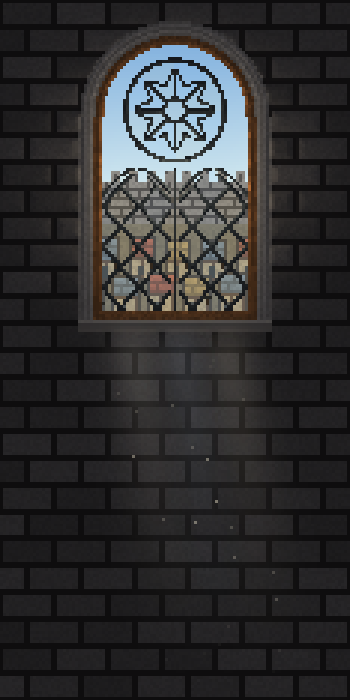
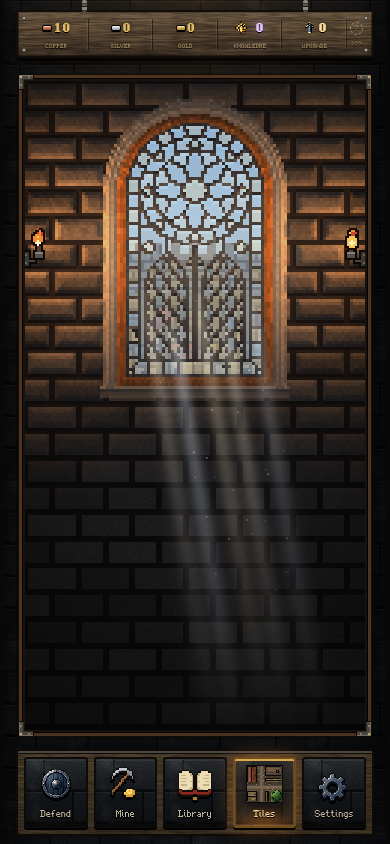
Tiles hall: visible moving sunbeams with dust, and a re-leaded pale stained-glass window
The sunlight Codex added was drawn into the wall canvas, under the dim veil
and the tile shelf, so almost none of it showed. The shafts and dust now
draw every frame on their own layer screened over the whole room (the menu
too): five narrower shafts pulsing like the Library's, a slower, wider sway,
and seventy wall-clock motes that glint only inside the light. The keep's
veil and shelf backing are lighter.

The window is glazed pane by pane with one-pixel mirrored cames: a beaded
border, a rose with a cream eye, eight petals and a ring of roundels,
roundelled spandrels and two pointed lancets of diamond quarries, in pale
clear, blue and cream glass. No goldens change.

Claude-Session: https://claude.ai/code/session_0147Kvxq8xaQsWX41nvHzmmA

diff --git a/src/ui/hall-art.ts b/src/ui/hall-art.ts
@@ -37,6 +37,8 @@ export class HallBackdrop {
   private part = new Uint8Array(0);
   private scene = new Float32Array(0);
   private glassTint = new Uint8Array(0);
+  /** Each pane's own brightness, lighter along its top came and darker along its foot. */
+  private glassShade = new Float32Array(0);
   private detailed = false;
   private sunlight: SoftSunlight | null = null;
   private city = new Float32Array(0);
@@ -63,6 +65,7 @@ export class HallBackdrop {
     this.part = new Uint8Array(n);
     this.scene = new Float32Array(n);
     this.glassTint = new Uint8Array(n);
+    this.glassShade = new Float32Array(n);
     this.city = new Float32Array(n * 3);
     this.outside = [];
     for (let y = 0; y < h; y++)
@@ -85,8 +88,10 @@ export class HallBackdrop {
     return true;
   }
 
-  /** A round-headed opening in moulded stone and oak. Pixel Art uses an
-   * eight-petal rose, paired pointed lights and pale glazing; off preserves
+  /** A round-headed opening in moulded stone and oak. Pixel Art glazes it
+   * with one-pixel leadwork (`leadedPane`): a beaded border, an eight-petal
+   * rose ringed with roundels, two pointed lancets of diamond quarries, all
+   * in pale clear, blue and cream glass; off preserves
    * the old four-lobed clear window. Both overlook the same living city. */
   private bakeWindow(hgt: Float32Array) {
     const { w, h } = this, ww = Math.round(Math.max(30, Math.min(w * 0.46, 110))), r = ww / 2;
@@ -130,15 +135,16 @@ export class HallBackdrop {
         const lobe = rose.r * 0.46;
         const iron = ring(rose, rose.r) || ring(rose, rose.r * 0.18)
           || [[1, 0], [-1, 0], [0, 1], [0, -1]].some(([a, b]) => ring({ x: rose.x + a * lobe, y: rose.y + b * lobe }, lobe * 0.98));
-        const pane = this.detailed ? windowPane(px, py, cx, r, rose.y, bottom) : null;
+        const pane = this.detailed ? leadedPane(px, py, cx, r, archY, bottom) : null;
         if (pane ? pane.lead : iron) {
           this.part[i] = TRACERY;
           hgt[i] = 1;
-          this.albedo.set(this.detailed ? [44, 48, 49] : h01(x, y, 19) > 0.65 ? [73, 75, 70] : [30, 34, 33], i * 3);
+          this.albedo.set(this.detailed ? [52, 54, 58] : h01(x, y, 19) > 0.65 ? [73, 75, 70] : [30, 34, 33], i * 3);
           continue;
         }
         this.part[i] = GLASS;
         this.glassTint[i] = pane?.tint ?? 0;
+        this.glassShade[i] = pane?.shade ?? 1;
         // Outside: hills, then the city's roofs and its wall under the sky.
         const hill = horizon + Math.sin(px * 0.11) * 2.2 + Math.sin(px * 0.037 + 1) * 3;
         const city = cityPixel(px, py);
@@ -207,9 +213,6 @@ export class HallBackdrop {
     });
     const amb: RGB = this.look === "planks" ? [0.2, 0.15, 0.12] : this.look === "vault" ? [0.25, 0.21, 0.32] : [0.16 + day * 0.14, 0.16 + day * 0.15, 0.2 + day * 0.15];
     const sky = skyColours(day), win = this.win, sun = keep ? day : 0;
-    // Same solar heading as the Library. Reduce Motion keeps a steady heading.
-    const tilt = reduced ? 0.2 : Math.sin(((now % DAY_MS) / DAY_MS) * Math.PI * 2 - Math.PI / 2) * 0.55
-      + Math.sin(now / SUNLIGHT.swayMs) * SUNLIGHT.sway;
     const lit = Math.max(0, Math.min(1, (0.55 - day) / 0.35));
     const exterior = this.outside.map((l) => ({ ...l, f: getTorchFlicker({ x: l.seed, y: 9 }, now, reduced) * lit }));
     for (let y = 0; y < h; y++)
@@ -229,8 +232,10 @@ export class HallBackdrop {
           // A faint sheen across clear glass, and a star or two at night.
           const sheen = this.detailed ? 1 : Math.abs(((x - y * 0.6) % 14 + 14) % 14 - 3) < 1 ? 1.12 : 1;
           if (this.detailed) {
-            const tint: RGB = this.glassTint[i] === 1 ? [226, 240, 249] : this.glassTint[i] === 2 ? [255, 246, 220] : [245, 247, 242];
-            c = mix(c, tint, 0.06 + day * 0.2);
+            // Pale cathedral glass: the view softened behind clear, faintly
+            // blue and faintly cream panes, each pane its own brightness.
+            const t = GLASS_TINTS[this.glassTint[i]], lum = (0.16 + day * 0.84) * this.glassShade[i];
+            c = mix(c, [t[0] * lum, t[1] * lum, t[2] * lum], 0.3 + day * 0.25);
           }
           const star = s > 0 && s < 0.7 && night > 0.5 && h01(x, y, 11) > 0.985 ? 120 * night : 0;
           out[o] = Math.min(255, c[0] * sheen + star);
@@ -281,55 +286,126 @@ export class HallBackdrop {
     }
     const ctx = this.canvas.getContext("2d")!;
     ctx.putImageData(this.image!, 0, 0);
-    if (keep && sun > 0.02) this.drawSunlight(ctx, now, sun, tilt, reduced);
   }
 
-  private drawSunlight(ctx: CanvasRenderingContext2D, now: number, day: number, tilt: number, reduced: boolean) {
-    this.sunlight ??= new SoftSunlight();
-    const { win, h } = this, width = (win.x1 - win.x0 - 6) / 3, top = win.y1 - 4, length = h - top;
-    const clock = reduced ? 0 : now;
-    for (let k = 0; k < 3; k++) {
-      const pulse = 0.9 + Math.sin(clock / (19000 + k * 3000) + k) * 0.1;
-      this.sunlight.draw(ctx, win.x0 + 3 + width * (k + 0.5), top, width, length, tilt, day * pulse, k);
+  /** The sun's shafts from the keep's window and the dust turning in them,
+   * every frame onto `light`, a layer over the whole room (the menu too) that
+   * the page screens over it. Coordinates are art pixels, the canvas a CSS
+   * pixel a pixel so the motes stay fine. Same heading and slow pulse as the
+   * Library's beams, with a gentle sway of their own; Reduce Motion holds
+   * them still and hides the dust; by night it is empty. */
+  drawLight(light: HTMLCanvasElement, now: number, day: number, reduced: boolean) {
+    this.fit();
+    const cw = light.clientWidth, ch = light.clientHeight;
+    if (light.width !== cw || light.height !== ch) {
+      light.width = cw;
+      light.height = ch;
     }
-    if (reduced) return;
-    // Fixed, wall-clock trajectories: bounded work, no spawning or RNG stream.
+    const ctx = light.getContext("2d")!;
+    ctx.clearRect(0, 0, cw, ch);
+    if (this.look !== "keep" || day <= 0.02 || !cw || !ch) return;
+    this.sunlight ??= new SoftSunlight(SUNLIGHT.hallDensity, SUNLIGHT.hallFade);
+    const { win, h } = this, clock = reduced ? 0 : now, span = win.x1 - win.x0 - 8;
+    const tilt = reduced ? 0.2 : Math.sin(((now % DAY_MS) / DAY_MS) * Math.PI * 2 - Math.PI / 2) * 0.55
+      + Math.sin(now / SUNLIGHT.swayMs) * SUNLIGHT.sway + Math.sin(now / SUNLIGHT.hallSwayMs) * SUNLIGHT.hallSway;
+    const beams = 5, width = span / beams, top = win.y0 + (win.y1 - win.y0) * 0.6, length = h - top;
     ctx.save();
-    ctx.fillStyle = "#fff4d9";
-    for (let k = 0; k < SUNLIGHT.dustCount; k++) {
-      const age = (h01(k, 1, 83) + now / (70000 + h01(k, 2, 83) * 90000)) % 1;
-      const run = age * length, across = h01(k, 3, 83);
-      const x = win.x0 + 3 + across * width * 3 + run * tilt + Math.sin(now / 11000 + k) * 2;
-      const fade = Math.sin(age * Math.PI) ** 2;
-      ctx.globalAlpha = day * fade * (0.18 + h01(k, 4, 83) * 0.3);
-      ctx.fillRect(Math.round(x), Math.round(top + run), 1, 1);
+    ctx.scale(cw / this.w, ch / this.h);
+    for (let k = 0; k < beams; k++) {
+      const pulse = 0.72 + 0.28 * Math.sin(clock / (3100 + k * 700) + k * 1.7);
+      const start = top + (k % 2) * 8;
+      // Narrower than their spacing, so each shaft stands apart and breathes on its own.
+      this.sunlight.draw(ctx, win.x0 + 4 + width * (k + 0.5), start, width * 0.55, h - start, tilt, day * pulse, k);
+    }
+    if (!reduced) {
+      // Motes on fixed wall-clock paths, drifting both ways and wandering;
+      // they glint only inside the light. No spawning, no random stream.
+      ctx.fillStyle = "#fff6dc";
+      const mid = (win.x0 + win.x1) / 2, dot = Math.max(0.5, this.w / cw * 1.6);
+      for (let k = 0; k < SUNLIGHT.dustCount; k++) {
+        const speed = (h01(k, 2, 83) - 0.4) / (60000 + h01(k, 5, 83) * 60000);
+        const age = ((h01(k, 1, 83) + now * speed) % 1 + 1) % 1, run = age * length;
+        const wander = Math.sin(now / (5200 + h01(k, 6, 83) * 6000) + k) * 3 + Math.sin(now / 1900 + k * 2.3) * 0.6;
+        const across = (h01(k, 3, 83) - 0.5) * span * (1 + age * 0.9);
+        const x = mid + across + run * tilt + wander, y = top + run + Math.sin(now / 3700 + k * 1.3) * 1.5;
+        // Brighter toward the shafts' middle and the window, gone at the ends.
+        const off = Math.abs(x - mid - run * tilt) / (span * 0.5 * (1 + age * 0.9));
+        const inBeam = Math.max(0, 1 - off * off), ends = Math.min(1, age * 8) * (1 - age) ** 1.2;
+        const twinkle = 0.65 + 0.35 * Math.sin(now / (700 + h01(k, 7, 83) * 900) + k);
+        ctx.globalAlpha = Math.min(1, day * inBeam * ends * twinkle * (0.6 + h01(k, 4, 83) * 0.4));
+        if (ctx.globalAlpha > 0.02) ctx.fillRect(x, y, dot, dot);
+      }
     }
     ctx.restore();
   }
 }
 
-/** Symmetric leadwork at native resolution: an eight-petal rose above two
- * pointed lights, with a quiet diamond lattice. Each pane owns one tint. */
-function windowPane(x: number, y: number, cx: number, r: number, roseY: number, bottom: number) {
-  const dx = x - cx, dy = y - roseY, rr = r * 0.62, dr = Math.hypot(dx, dy);
-  const angle = Math.atan2(dy, dx), sector = angle * 4 / Math.PI;
-  const petal = rr * (0.66 + 0.13 * Math.cos(angle * 8));
-  if (dr < rr + 0.8) {
-    const lead = Math.abs(dr - rr) < 0.75 || Math.abs(dr - rr * 0.23) < 0.75
-      || Math.abs(dr - petal) < 0.8
-      || (dr > rr * 0.23 && dr < petal && Math.abs(sector - Math.round(sector)) * dr * Math.PI / 4 < 0.72);
-    return { lead, tint: dr < rr * 0.23 ? 2 : (Math.floor(sector + 8) % 2) + 1 };
+/** The panes' tints: clear, the palest blue, the palest cream. */
+const GLASS_TINTS: RGB[] = [[236, 240, 236], [212, 230, 246], [250, 238, 206]];
+const CLEAR = 0, BLUE = 1, CREAM = 2;
+/** No pane: inside the frame's came or the central mullion. */
+const CAME = -1;
+
+/** The window's glazing as panes, each an id and a tint: a border of
+ * alternating beads, a rose in the head (a cream eye, eight petals, crescents
+ * between them and an outer ring of sixteen segments, each with a roundel),
+ * spandrels round it and two pointed lancets of diamond quarries below.
+ * Everything reads `|x - cx|`, so the leadwork mirrors exactly. */
+function paneAt(px: number, py: number, cx: number, r: number, archY: number, bottom: number): { id: number; tint: number } {
+  const X = Math.abs(px - cx);
+  const d = py < archY ? r - Math.hypot(X, py - archY) : Math.min(r - X, bottom - py);
+  if (d < 4) return { id: CAME, tint: CLEAR };
+  if (d < 8) {
+    // The border, measured round the opening from the head's crown.
+    const side = r - X < bottom - py;
+    const s = py < archY ? Math.atan2(X, archY - py) * (r - 6)
+      : side ? Math.PI / 2 * (r - 6) + (py - archY) : Math.PI / 2 * (r - 6) + (bottom - archY) + (r - X);
+    const k = Math.round(s / 5);
+    return { id: 100 + k, tint: k % 2 ? BLUE : CREAM };
   }
-  const split = roseY + rr + 2;
-  if (y < split || y > bottom - 3) return { lead: false, tint: 0 };
-  const half = r * 0.43, localX = Math.abs(dx) - r * 0.47;
-  const arch = split + Math.pow(Math.abs(localX) / half, 1.5) * half * 0.85;
-  const u = dx / (r * 0.45), v = (y - split) / (r * 0.5);
-  const lattice = Math.min(Math.abs(u + v - Math.round(u + v)), Math.abs(u - v - Math.round(u - v))) * r * 0.34 < 0.7;
-  const lead = Math.abs(dx) < 0.7 || (Math.abs(localX) < half && Math.abs(y - arch) < 0.8)
-    || (y > arch + 2 && Math.abs(localX) < half && lattice);
-  const tint = ((Math.floor(u + v) + Math.floor(u - v)) % 3 + 3) % 3;
-  return { lead, tint: y > arch ? tint : 0 };
+  const rr = r - 8, dy = py - archY, dr = Math.hypot(X, dy);
+  if (dr < rr) {
+    const th = Math.atan2(X, -dy), eye = rr * 0.2, ring = rr * 0.74;
+    if (dr < eye) return { id: 200, tint: CREAM };
+    if (dr < ring) {
+      const petal = rr * (0.6 + 0.14 * Math.cos(th * 8));
+      if (dr < petal) return { id: 210 + Math.round(th / (Math.PI / 4)), tint: BLUE };
+      return { id: 220 + Math.floor(th / (Math.PI / 4)), tint: CLEAR };
+    }
+    // Sixteen segments in a big rose, eight in a small one so the roundels keep room.
+    const step = rr >= 24 ? Math.PI / 8 : Math.PI / 4, m = Math.round(th / step), a = m * step, mid = (ring + rr) / 2;
+    const bead = Math.max(1.6, (rr - ring) * 0.3);
+    if (Math.hypot(X - Math.sin(a) * mid, dy + Math.cos(a) * mid) < bead) return { id: 260 + m, tint: CREAM };
+    return { id: 240 + m, tint: m % 2 ? BLUE : CLEAR };
+  }
+  // Below the rose: two pointed lancets either side of the mullion.
+  const foot = archY + rr, half = rr / 2, hw = half - 1.5, a = X - half;
+  if (X < 1 && py > foot - 1) return { id: CAME, tint: CLEAR };
+  const springing = foot + 3 + hw * 1.73, reach = (Math.abs(a) + hw);
+  const head = reach < hw * 2 ? springing - Math.sqrt(hw * hw * 4 - reach * reach) : Infinity;
+  if (Math.abs(a) < hw && py > head) {
+    const q = Math.max(5, hw / 1.8), u = a / q, v = (py - springing) / (q * 1.4);
+    const i = Math.round(u + v), j = Math.round(u - v);
+    return { id: 100000 + (i + 500) * 1000 + j + 500, tint: (((i + j) % 3) + 3) % 3 };
+  }
+  // The spandrels: faintly blue, the outer ones round a cream roundel where
+  // the rose meets the lancets, the inner one under the rose's foot.
+  const outer = a > 0, spot = outer ? { x: r - 8 - rr * 0.16, y: foot + 1 } : { x: 0, y: foot + 2 + hw * 0.5 };
+  if (Math.hypot(X - spot.x, py - spot.y) < Math.max(1.6, rr * 0.1)) return { id: 510 + (outer ? 1 : 0), tint: CREAM };
+  return { id: 500 + (outer ? 1 : 0) + (py < foot - rr * 0.35 ? 2 : 0), tint: outer ? BLUE : CLEAR };
+}
+
+/** A pixel of leaded glass: lead where its pane meets the next one toward the
+ * mullion or below (so each came is one pixel and mirrors exactly), and
+ * otherwise its pane's tint and shade. */
+function leadedPane(px: number, py: number, cx: number, r: number, archY: number, bottom: number) {
+  const here = paneAt(px, py, cx, r, archY, bottom);
+  if (here.id === CAME) return { lead: true, tint: CLEAR, shade: 1 };
+  const toward = paneAt(px + (px < cx ? 1 : -1), py, cx, r, archY, bottom).id;
+  const below = paneAt(px, py + 1, cx, r, archY, bottom).id, above = paneAt(px, py - 1, cx, r, archY, bottom).id;
+  const lead = (toward !== CAME && toward !== here.id) || (below !== CAME && below !== here.id);
+  const shade = (0.95 + h01(here.id % 9973, here.id >> 10, 31) * 0.1) * (above !== here.id ? 1.1 : below !== here.id ? 0.92 : 1);
+  return { lead, tint: here.tint, shade };
 }
 
 /** Worn oak boards laid in courses, each board its own tone, with grain,

diff --git a/src/soft-sunlight.ts b/src/soft-sunlight.ts
@@ -7,7 +7,12 @@ export const SUNLIGHT = {
   distanceFade: 1.7,
   sway: 0.025,
   swayMs: 28000,
-  dustCount: 30,
+  /** The Tiles hall: denser shafts, a slower, wider sway and more dust. */
+  hallDensity: 0.5,
+  hallFade: 0.9,
+  hallSway: 0.09,
+  hallSwayMs: 11000,
+  dustCount: 70,
 } as const;
 
 const TINTS = [[255, 244, 222], [226, 239, 255], [255, 238, 202]] as const;
@@ -15,7 +20,9 @@ const TINTS = [[255, 244, 222], [226, 239, 255], [255, 238, 202]] as const;
 export class SoftSunlight {
   private fields: HTMLCanvasElement[];
 
-  constructor() {
+  /** `density` is the field's peak opacity; the Tiles hall's shafts, over its
+   * darker shelf, are denser than the Library's. */
+  constructor(density: number = SUNLIGHT.density, fade: number = SUNLIGHT.distanceFade) {
     // Analytic feathering is baked once, including the halo and both ends.
     // Scaling this small field is cheaper than blurring a room every frame.
     this.fields = TINTS.map(tint => {
@@ -27,11 +34,11 @@ export class SoftSunlight {
         const along = (y + 0.5) / 192, across = (x + 0.5) / 48 - 1;
         const sigma = SUNLIGHT.feather * (1 + along * SUNLIGHT.spread);
         const start = Math.min(1, along / 0.14);
-        const density = Math.exp(-across * across / (2 * sigma * sigma))
-          * start * start * (3 - 2 * start) * (1 - along) ** SUNLIGHT.distanceFade;
+        const field = Math.exp(-across * across / (2 * sigma * sigma))
+          * start * start * (3 - 2 * start) * (1 - along) ** fade;
         const o = (y * 96 + x) * 4;
         image.data[o] = tint[0]; image.data[o + 1] = tint[1]; image.data[o + 2] = tint[2];
-        image.data[o + 3] = Math.round(255 * SUNLIGHT.density * density);
+        image.data[o + 3] = Math.round(255 * density * field);
       }
       ctx.putImageData(image, 0, 0);
       return canvas;

diff --git a/src/ui/chamber.ts b/src/ui/chamber.ts
@@ -18,15 +18,18 @@ export class Chamber {
   readonly content: HTMLElement;
   private backdrop: HallBackdrop;
   private sconces: HTMLCanvasElement[];
+  /** The sun's shafts and dust, screened over the whole room (the keep's only). */
+  private light: HTMLCanvasElement | null;
 
   constructor(readonly root: HTMLElement, look: HallLook) {
     root.classList.add("chamber", `chamber-${look}`);
     root.innerHTML = `<canvas class="chamber-wall" aria-hidden="true"></canvas><div class="chamber-dim" aria-hidden="true"></div>
       <canvas class="sconce left" aria-hidden="true"></canvas><canvas class="sconce right" aria-hidden="true"></canvas>
-      <div class="chamber-content"></div>`;
+      <div class="chamber-content"></div>${look === "keep" ? `<canvas class="chamber-light" aria-hidden="true"></canvas>` : ""}`;
     this.backdrop = new HallBackdrop(root.querySelector<HTMLCanvasElement>(".chamber-wall")!, look);
     this.sconces = Array.from(root.querySelectorAll<HTMLCanvasElement>(".sconce"));
     this.content = root.querySelector<HTMLElement>(".chamber-content")!;
+    this.light = root.querySelector<HTMLCanvasElement>(".chamber-light");
   }
 
   /** Lights the room for wall-clock `now`; `day` in [0, 1] is the daylight
@@ -40,6 +43,7 @@ export class Chamber {
       return { x: r.left - base.left + r.width / 2, y: r.top - base.top + r.height * 0.3 };
     });
     this.backdrop.draw(now, spots, day, reduced);
+    if (this.light) this.backdrop.drawLight(this.light, now, day, reduced);
   }
 }
 

diff --git a/src/theme.css b/src/theme.css
@@ -1636,9 +1636,14 @@ dialog .away-row .away-note {
 /* Inside the keep: a slight darkness over everything, so neither the sun
    through the window nor the torches wash out the tiles. */
 .chamber-keep .chamber-dim {
+  /* Lighter than the other rooms' veils: the window and its sunlight show. */
   background:
-    radial-gradient(ellipse 80% 70% at 50% 40%, transparent 30%, #00000080 100%),
-    linear-gradient(#0000004a, #00000066);
+    radial-gradient(ellipse 80% 70% at 50% 40%, transparent 40%, #00000070 100%),
+    linear-gradient(#00000010, #00000040);
+}
+/* The keep's shelf lets the wall and the window's light show through. */
+.chamber-keep .tiles-shelf {
+  background: linear-gradient(#0a080610, #0a080640 45%, #0a080678);
 }
 .chamber-title h2 {
   color: #f6dca4;

diff --git a/src/style.css b/src/style.css
@@ -1921,6 +1921,16 @@ nav button > .tab-idle[hidden] { display: none; }
 }
 .sconce.left { left: 0; }
 .sconce.right { right: 0; }
+/* The keep's sunbeams and dust, over the menu too, as light rather than paint. */
+.chamber-light {
+  position: absolute;
+  inset: 0;
+  z-index: 4;
+  width: 100%;
+  height: 100%;
+  pointer-events: none;
+  mix-blend-mode: screen;
+}
 .chamber-content {
   position: absolute;
   inset: 0;

diff --git a/docs/art/WINDOW_SUNLIGHT.md b/docs/art/WINDOW_SUNLIGHT.md
@@ -4,24 +4,22 @@
 
 The Library and Tiles hall share `src/soft-sunlight.ts`. Each renderer caches three small light-density textures once. Their cross-section has a Gaussian feather, a smooth source fade and a gradual distance fade. Each frame shears these fields with the solar heading and composites them with `screen`. The fields overlap at low opacity; their edges dissolve instead of outlining transparent polygons. Only light is interpolated: stone, oak, lead and the rest of the scene keep their existing crisp sampling. There is no full-scene blur or per-frame texture allocation.
 
-Tiles follows the Library's eight-minute day, with a small additional slow sway. Its thirty dust motes follow stable wall-clock trajectories through the shafts, fading at both ends; they use no gameplay/effects random stream, new timer or save state. Night removes the sunlight and illuminated interior dust. Reduce Motion freezes the Tiles solar heading and omits its drifting dust. The Library retains its existing effects/Reduce Motion behavior and motes.
+Tiles follows the Library's eight-minute day, with its own slower, wider sway (`hallSway`, `hallSwayMs`) and the Library's few-second pulse on each of its five shafts, drawn narrower than their spacing so each stands apart. The shafts and dust are drawn every frame onto their own layer, `.chamber-light`, which sits over the whole room, the menu included, and is composited with CSS `mix-blend-mode: screen`: the shelf and its tiles are lit where a shaft crosses them rather than hiding it. Its seventy dust motes follow stable wall-clock paths, drifting up or down and wandering, and glint only inside the light, fading at both ends; they use no gameplay/effects random stream, new timer or save state. Night clears the layer. Reduce Motion freezes the Tiles solar heading and omits its drifting dust. The keep's dim veil and shelf backing are lighter than the other rooms' so the window and light show through. The Library retains its existing effects/Reduce Motion behavior and motes.
 
-With Pixel Art checked, the existing procedural Tiles window uses symmetrical native-grid leadwork: an eight-petal rose with a central eye, paired pointed lower panels and larger diamond panes. Its glass is predominantly clear, with faint blue and cream glazing over the existing sky, hills and city. Lead has a consistent material tone instead of random bright specks. Switching Pixel Art off rebakes the original four-lobed clear-glass window; toggling back works at the same size without reloading. The soft atmospheric lighting is shared by both art modes. This revises the existing procedural backdrop; it adds no sprite assets and does not complete the pending PNG room/scenery migration.
+With Pixel Art checked, the Tiles window is glazed pane by pane (`paneAt`): a border of alternating cream and blue beads, a rose in the head (cream eye, eight blue petals, clear crescents between them, an outer ring of sixteen segments each holding a cream roundel, eight in a small window), faintly blue spandrels with cream roundels, and two pointed lancets of diamond quarries either side of a mullion. `leadedPane` turns pane boundaries into one-pixel cames (lead on the pixel toward the mullion or above, so the window mirrors exactly), and shades each pane on its own, lighter along its top came. The glass is pale clear, blue and cream mixed over the city outside (about half at noon). Switching Pixel Art off rebakes the original four-lobed clear-glass window; toggling back works at the same size without reloading. This revises the existing procedural backdrop; it adds no sprite assets.
 
 Tuning:
 
 | Control | Location |
 | --- | --- |
-| Light intensity | `SUNLIGHT.density` in `src/soft-sunlight.ts`; callers also pass daylight/pulse strength |
+| Light intensity | `SUNLIGHT.density` (Library) and `hallDensity` (Tiles) in `src/soft-sunlight.ts`; callers also pass daylight/pulse strength |
 | Edge softness and widening | `SUNLIGHT.feather` and `spread` |
-| Fade with distance | `SUNLIGHT.distanceFade`; source fade in the texture bake |
-| Motion | `SUNLIGHT.sway` / `swayMs`; solar period remains `DAY_MS` |
-| Dust density and speed | `SUNLIGHT.dustCount`; trajectory periods in `HallBackdrop.drawSunlight` |
-| Pane colors and transmission | Glass tint mix in `HallBackdrop.draw` |
-| Tracery and pane layout | `windowPane` in `src/ui/hall-art.ts` |
+| Fade with distance | `SUNLIGHT.distanceFade` (Library), `hallFade` (Tiles); source fade in the texture bake |
+| Motion | `SUNLIGHT.sway` / `swayMs`, plus `hallSway` / `hallSwayMs` in Tiles; solar period remains `DAY_MS` |
+| Dust density and speed | `SUNLIGHT.dustCount`; trajectory periods in `HallBackdrop.drawLight` |
+| Pane colors and transmission | `GLASS_TINTS` and the tint mix in `HallBackdrop.draw` |
+| Tracery and pane layout | `paneAt` / `leadedPane` in `src/ui/hall-art.ts` |
 
-No runtime blur or layer-count control is needed: the cached continuous density replaces nested polygons. Three fields are drawn in Tiles and five in the Library, with three reusable 96 × 192 textures per renderer.
+No runtime blur or layer-count control is needed: the cached continuous density replaces nested polygons. Five fields are drawn in each, with three reusable 96 × 192 textures per renderer.
 
-`node tests/hall-sunlight.mjs` checks soft edge falloff, changing sunlight/dust, night, Reduce Motion, native symmetry and repeated art toggles at 1280/390/360 pixels. It captures both the real Tiles UI and an unobstructed window under `test-results/tiles-sunlight-*` and `tiles-window-detail-*`. Run against a dev server with `TEST_URL` and `PLAYWRIGHT_EXECUTABLE` as needed. Existing `tests/library-idle.mjs` and `tests/tiles-marks.mjs` cover live Library rendering and Tiles interactions.
-
-Validation passed: all 630 Node tests, the TypeScript/Vite production build, the three-width window matrix, Library idle/fire/mobile browser checks, and Tiles stacking/detail interactions at desktop and phone widths. The build retains its existing large-chunk warning; no gameplay golden changed.
+`node tests/hall-sunlight.mjs` checks soft edge falloff, plainly visible shafts, changing sunlight/dust, night, Reduce Motion, native symmetry and repeated art toggles at 1280/390/360 pixels. It captures both the real Tiles UI and an unobstructed window under `test-results/tiles-sunlight-*` and `tiles-window-detail-*`. Run against a dev server with `TEST_URL` and `PLAYWRIGHT_EXECUTABLE` as needed. Existing `tests/library-idle.mjs` and `tests/tiles-marks.mjs` cover live Library rendering and Tiles interactions.

diff --git a/AGENTS.md b/AGENTS.md
@@ -185,7 +185,7 @@ During timed Study research, `Ledger.researchHtml` replaces collection/subject/t
 
 Study cancellation requires two deliberate clicks: Cancel research arms Confirm cancel and displays the progress-loss warning; only confirmation calls `cancelResearch`. Keep researching or Escape dismisses it and returns focus to Cancel. `bindResearchCancellation` keeps confirmation local to the rendered project, guards the job's identity, ignores rapid double-click follow-up events, and resets on redraw/navigation/reload. Normal timer ticks leave it armed while work continues. No confirmation state is saved. `tests/upgrade-work.mjs` covers these transitions and the refund at desktop/phone widths; `tests/magic-circle.mjs` verifies asking to cancel leaves Knowledge geometry unchanged.
 
-Window sunlight in the Library and Tiles uses `src/soft-sunlight.ts` (`SoftSunlight`): three cached 96×192 analytic density fields, feathered across and faded at both ends, sheared and screen-composited over sharp scene art. `SUNLIGHT` owns intensity, feather/spread, fade, slow sway and Tiles dust count; no runtime blur, frame texture allocation, RAF or save fields. The hall retains its 70ms lighting cadence. Tiles' thirty seeded wall-clock motes fade with daylight; Reduce Motion holds a fixed heading and hides motes. `HallBackdrop.fit` also keys the Pixel Art setting: on uses symmetric rose/pointed-light/diamond leadwork with very pale blue/cream glazing; off rebakes the original clear four-lobed window. Both retain the exterior city/torches. This is a procedural backdrop revision, not completed PNG scenery migration. `node tests/hall-sunlight.mjs` checks soft edges, motion/night/reduced mode, symmetry and repeated toggles at 1280/390/360px. [Reference and tuning](docs/art/WINDOW_SUNLIGHT.md).
+Window sunlight in the Library and Tiles uses `src/soft-sunlight.ts` (`SoftSunlight`): three cached 96×192 analytic density fields, feathered across and faded at both ends, sheared and screen-composited over sharp scene art. `SUNLIGHT` owns intensity, feather/spread, fade, slow sway and the Tiles hall's own density, fade, sway and dust count; no runtime blur, frame texture allocation, RAF or save fields. The hall's wall keeps its 70ms lighting cadence; its shafts and dust are drawn every frame by `HallBackdrop.drawLight` onto the keep chamber's `.chamber-light` canvas, screened (CSS `mix-blend-mode`) over the menu too, five pulsing shafts and seventy wall-clock motes glinting only in the light; night clears it, Reduce Motion holds a fixed heading and hides motes. The keep's veil and shelf backing are lighter so it shows. `HallBackdrop.fit` also keys the Pixel Art setting: on glazes the window pane by pane (`paneAt`, `leadedPane`: one-pixel mirrored cames, a beaded border, a rose with petals and roundels, roundelled spandrels and two lancets of diamond quarries in pale clear/blue/cream, `GLASS_TINTS`); off rebakes the original clear four-lobed window. Both retain the exterior city/torches. This is a procedural backdrop revision, not completed PNG scenery migration. `node tests/hall-sunlight.mjs` checks soft edges, motion/night/reduced mode, symmetry and repeated toggles at 1280/390/360px. [Reference and tuning](docs/art/WINDOW_SUNLIGHT.md).
 
 **Melee capes.** `defend/melee-cape.ts` adds Hero-style cloth to swordsmen, brawlers, assassins, spearmen, hoplites, lancers, valkyries and melee summons (including reinforcement descent). Hero stays at 100%; Shadow/ranged troops and summoned archers keep their existing art. `MELEE_CAPE_LENGTHS` is 60/70/80/90% by the current family's path rank, from its home building's battle snapshot or equipped spell, never ancestor ranks. `hero-cape.ts` now stores per-cape `link` and optional `CapeCut` for path hems/trim; default Hero pixels remain identical, with finite-link clipping retained. New cloth is gated on `pixelArtOn()`, skipped by Simple Troops, frozen by Reduce Motion, and inherits body/cloak/fade opacity. `battle-art.ts` attaches it at each body's/lunge's pin; mounted capes sit over the horse. Reusable software-backed native-eight-pixel buffers/WeakMap state update at staggered 15Hz; segment lengths are computed once per raster. Combat caching includes Reduce Motion. No gameplay/save/RNG changes. `tests/defend-melee-cape.test.ts` and `node tests/melee-capes.mjs` cover ratios, reset, path/spell selection, backwards geometry, trim, animation/settings/outline modes and bounded crowd work. [Gallery and details](docs/art/MELEE_CAPES.md). This is a procedural cloth addition, not completed unit-body PNG migration.
 
